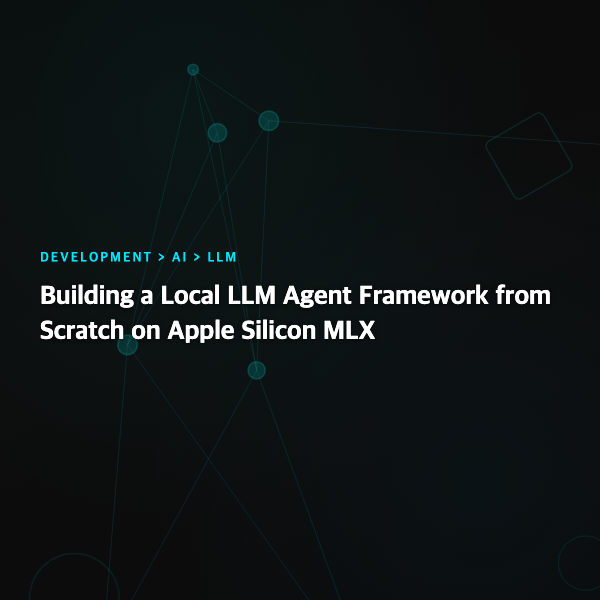
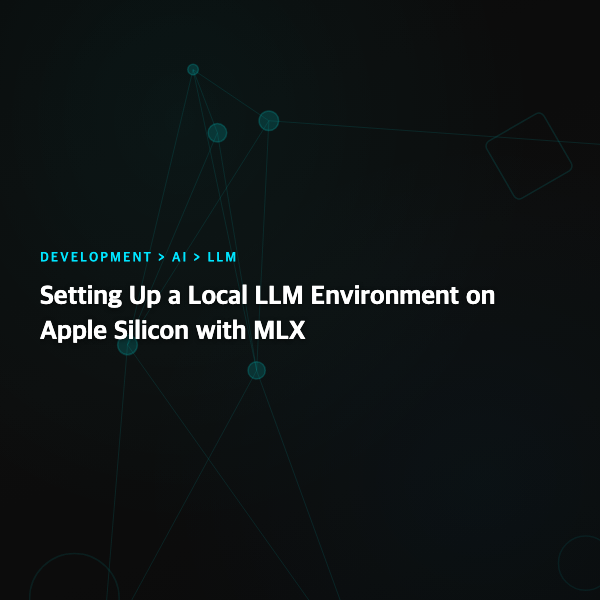
chore: Local Agent on MLX 포스트 제목을 환경 구축 범위로 조정

Changed region(s): [[0.06, 0.45, 0.93, 0.57]]

diff --git a/_posts/ja/development/ai/llm/2026-04-25-local-agent-on-mlx.md b/_posts/ja/development/ai/llm/2026-04-25-local-agent-on-mlx.md
@@ -1,7 +1,7 @@
 ---
-title: "[LLM] Apple Silicon MLXでローカルLLMエージェントフレームワークを自作する"
+title: "[LLM] Apple SiliconでMLXを使ってローカルLLM環境を構築する"
 ref: local-agent-on-mlx
-excerpt: "Apple Silicon MacBook Pro M5 Pro環境でMLXとQwen 3.6モデルを使い、ローカルLLMエージェントフレームワークを自作するための環境構築と学習ロードマップを整理する。"
+excerpt: "Apple Silicon MacBook Pro M5 Pro環境でMLXとQwen 3.6モデルを使ってローカルLLM環境を構築し、エージェントフレームワーク学習のための事前準備を整理する。"
 date: 2026-04-25T15:00+09:00
 last_modified_at: 2026-04-25T15:00+09:00
 published: true
@@ -34,7 +34,7 @@ depth:
 
 # 概要
 
-Apple Silicon MacBook Pro M5 Pro環境でMLXとQwen 3.6モデルを使い、ローカルLLMエージェントフレームワークを自作するための環境構築と学習ロードマップを整理する。
+Apple Silicon MacBook Pro M5 Pro環境でMLXとQwen 3.6モデルを使ってローカルLLM環境を構築し、エージェントフレームワーク学習のための事前準備を整理する。
 
 # 手順
 

diff --git a/_posts/ko/development/ai/llm/2026-04-25-local-agent-on-mlx.md b/_posts/ko/development/ai/llm/2026-04-25-local-agent-on-mlx.md
@@ -1,7 +1,7 @@
 ---
-title: "[LLM] Apple Silicon MLX로 로컬 LLM 에이전트 프레임워크 직접 구현하기"
+title: "[LLM] Apple Silicon에서 MLX로 로컬 LLM 환경 구축하기"
 ref: local-agent-on-mlx
-excerpt: "Apple Silicon MacBook Pro M5 Pro 환경에서 MLX와 Qwen 3.6 모델을 사용해 로컬 LLM 에이전트 프레임워크를 직접 구현하기 위한 환경 구성과 학습 로드맵을 정리한다."
+excerpt: "Apple Silicon MacBook Pro M5 Pro 환경에서 MLX와 Qwen 3.6 모델로 로컬 LLM 환경을 구축하고 에이전트 프레임워크 학습을 위한 사전 준비를 정리한다."
 date: 2026-04-25T15:00+09:00
 last_modified_at: 2026-04-25T15:00+09:00
 published: true
@@ -32,7 +32,7 @@ depth:
 
 # 개요
 
-Apple Silicon MacBook Pro M5 Pro 환경에서 MLX와 Qwen 3.6 모델을 사용해 로컬 LLM 에이전트 프레임워크를 직접 구현하기 위한 환경 구성과 학습 로드맵을 정리한다.
+Apple Silicon MacBook Pro M5 Pro 환경에서 MLX와 Qwen 3.6 모델로 로컬 LLM 환경을 구축하고 에이전트 프레임워크 학습을 위한 사전 준비를 정리한다.
 
 # 정리
 

diff --git a/_posts/en/development/ai/llm/2026-04-25-local-agent-on-mlx.md b/_posts/en/development/ai/llm/2026-04-25-local-agent-on-mlx.md
@@ -1,7 +1,7 @@
 ---
-title: "[LLM] Building a Local LLM Agent Framework from Scratch on Apple Silicon MLX"
+title: "[LLM] Setting Up a Local LLM Environment on Apple Silicon with MLX"
 ref: local-agent-on-mlx
-excerpt: "A learning notebook for setting up MLX with Qwen 3.6 on a MacBook Pro M5 Pro and building a local LLM agent framework from scratch."
+excerpt: "Setting up a local LLM environment with MLX and Qwen 3.6 on a MacBook Pro M5 Pro and laying the groundwork for studying agent frameworks."
 date: 2026-04-25T15:00+09:00
 last_modified_at: 2026-04-25T15:00+09:00
 published: true
@@ -34,7 +34,7 @@ depth:
 
 # Overview
 
-A learning notebook for setting up MLX with Qwen 3.6 on a MacBook Pro M5 Pro and building a local LLM agent framework from scratch.
+Setting up a local LLM environment with MLX and Qwen 3.6 on a MacBook Pro M5 Pro and laying the groundwork for studying agent frameworks.
 
 # Steps
 
